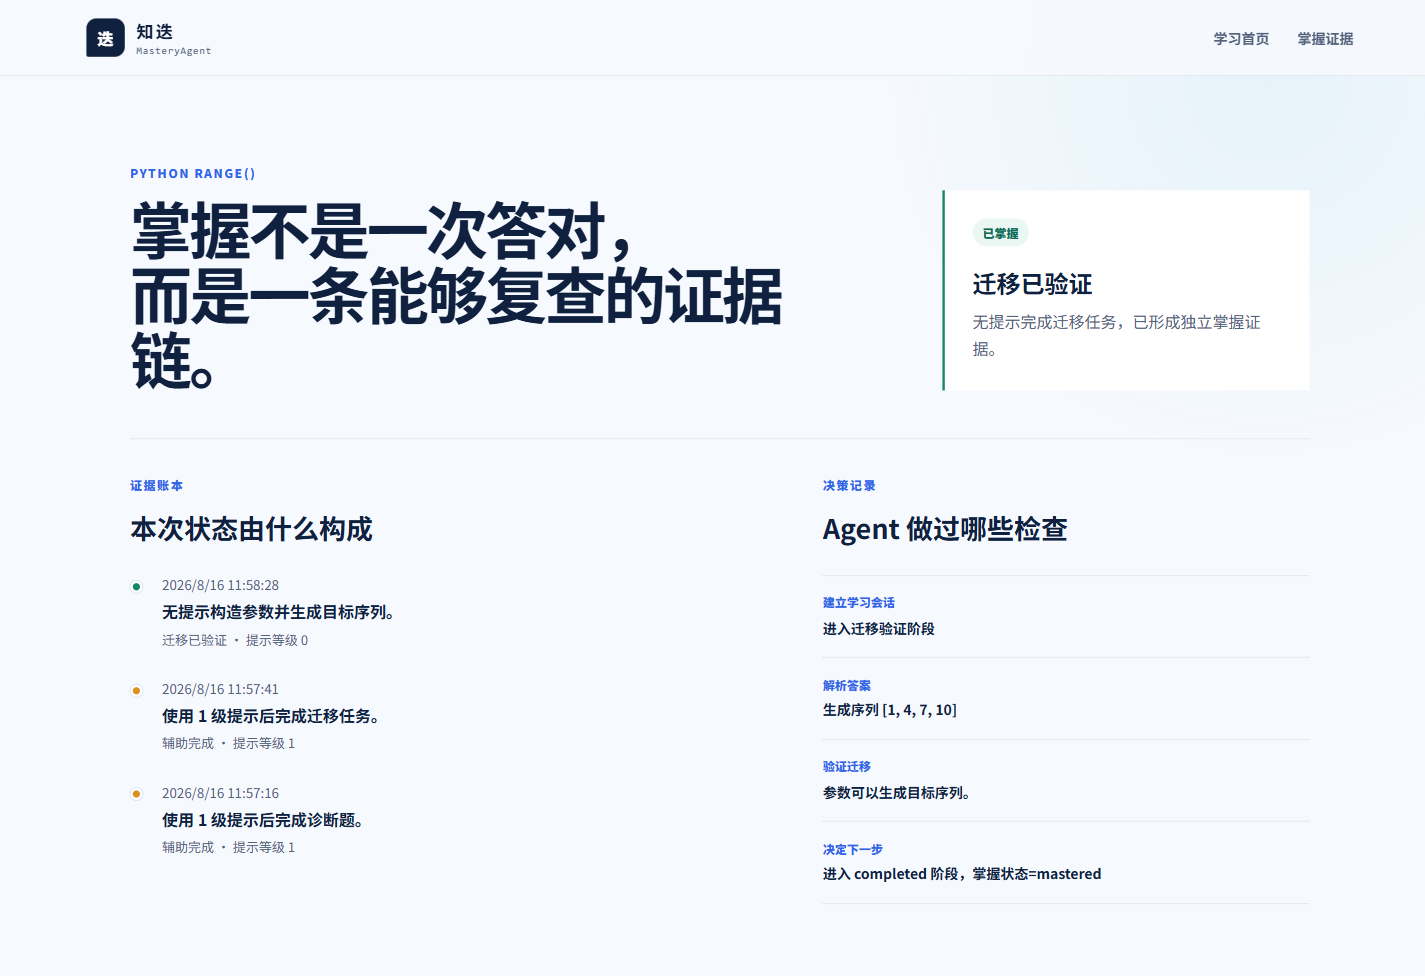
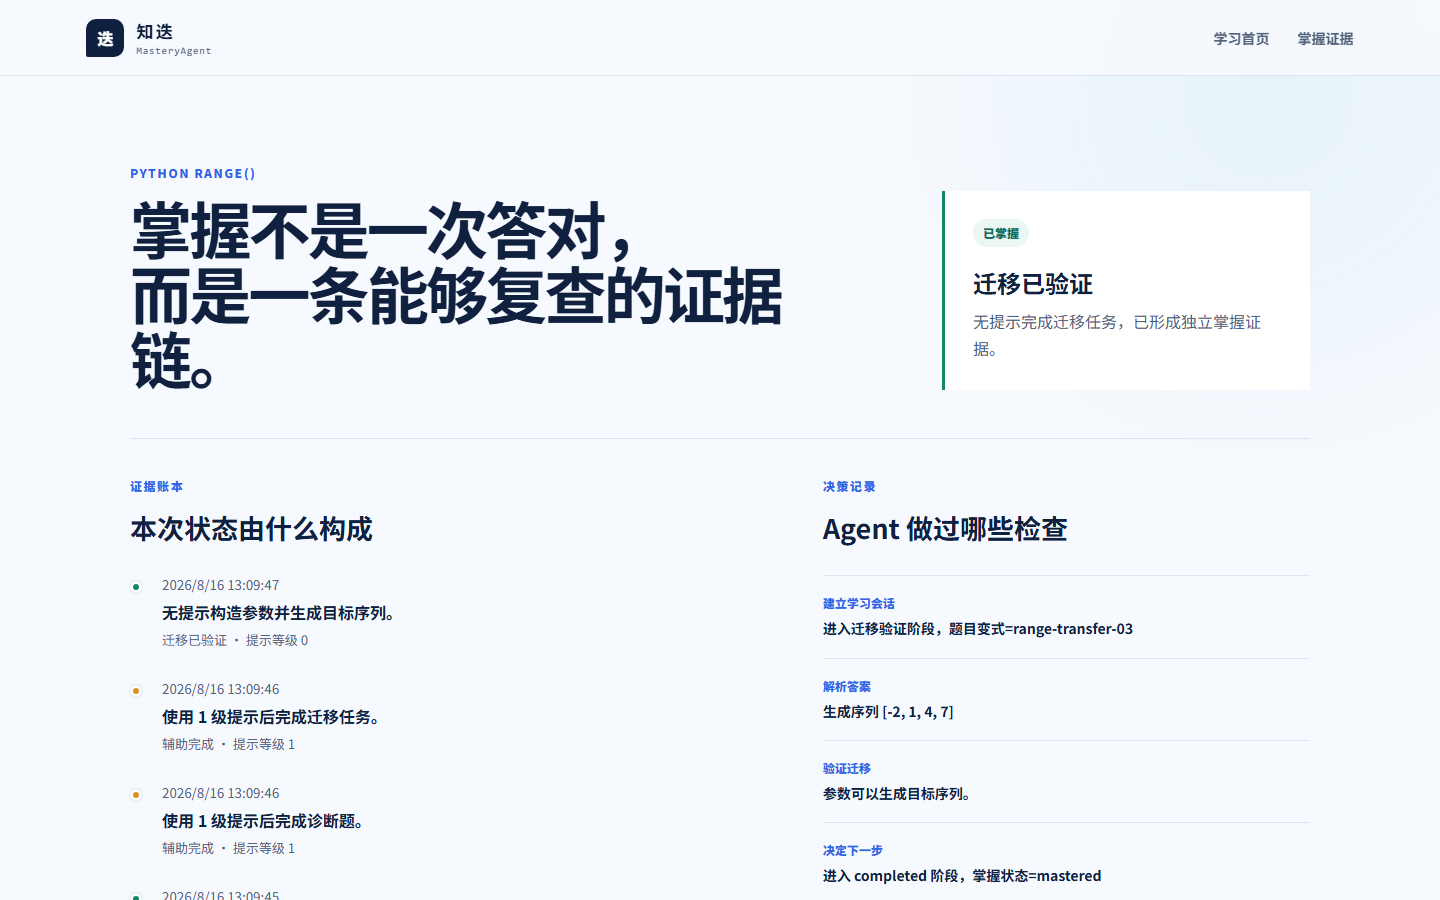
docs: refresh learning flow screenshots (#7)

diff --git a/frontend/e2e/mastery-flow.spec.ts b/frontend/e2e/mastery-flow.spec.ts
@@ -1,4 +1,23 @@
-import { expect, test } from "@playwright/test";
+import path from "node:path";
+import { fileURLToPath } from "node:url";
+
+import { expect, test, type Page } from "@playwright/test";
+
+
+const guideImageDirectory = path.resolve(
+  path.dirname(fileURLToPath(import.meta.url)),
+  "..",
+  "..",
+  "docs",
+  "images",
+  "user-guide",
+);
+
+async function captureGuideScreenshot(name: string, page: Page) {
+  if (process.env.CAPTURE_GUIDE_SCREENSHOTS !== "1") return;
+  await page.screenshot({ path: path.join(guideImageDirectory, name), fullPage: false });
+}
+
 
 test("独立掌握、错因提示与新变式复验形成完整证据链", async ({ page }) => {
   const consoleErrors: string[] = [];
@@ -19,6 +38,7 @@ test("独立掌握、错因提示与新变式复验形成完整证据链", async
 
   await page.getByRole("link", { name: "学习首页" }).click();
   await expect(page.getByRole("button", { name: "再练一次" })).toBeVisible();
+  await captureGuideScreenshot("repractice.png", page);
   await page.getByRole("button", { name: "再练一次" }).click();
 
   await page.getByLabel("你的答案").fill("[2, 3, 4]");
@@ -26,6 +46,7 @@ test("独立掌握、错因提示与新变式复验形成完整证据链", async
   await expect(page.locator(".feedback").getByText("你把步长 3 理解成了每次增加 1。")).toBeVisible();
   await page.getByRole("button", { name: "我需要一点提示" }).click();
   await expect(page.locator(".hint-panel").getByText(/第三个参数.*相邻两项/)).toBeVisible();
+  await captureGuideScreenshot("personalized-hint.png", page);
 
   await page.getByLabel("你的答案").fill("[2, 5, 8]");
   await page.getByRole("button", { name: "提交答案" }).click();
@@ -34,6 +55,7 @@ test("独立掌握、错因提示与新变式复验形成完整证据链", async
   await page.getByLabel("你的答案").fill("range(3, 16, 4)");
   await page.getByRole("button", { name: "提交答案" }).click();
   await expect(page.locator(".completion").getByRole("heading", { name: "本次完成，仍需独立验证" })).toBeVisible();
+  await captureGuideScreenshot("pending-verification.png", page);
 
   await page.getByRole("link", { name: "学习首页" }).click();
   await page.getByRole("button", { name: "开始迁移验证" }).click();
@@ -47,5 +69,6 @@ test("独立掌握、错因提示与新变式复验形成完整证据链", async
   await expect(page.getByText("迁移已验证", { exact: true }).first()).toBeVisible();
   await expect(page.getByText("使用 1 级提示后完成迁移任务。")).toBeVisible();
   await expect(page.getByText("无提示构造参数并生成目标序列。").first()).toBeVisible();
+  await captureGuideScreenshot("evidence.png", page);
   expect(consoleErrors).toEqual([]);
 });

diff --git a/frontend/playwright.config.ts b/frontend/playwright.config.ts
@@ -28,7 +28,11 @@ export default defineConfig({
   projects: [
     {
       name: "chromium",
-      use: { ...devices["Desktop Chrome"] },
+      use: {
+        ...devices["Desktop Chrome"],
+        viewport: { width: 1440, height: 900 },
+        deviceScaleFactor: 1,
+      },
     },
   ],
   webServer: [

diff --git a/docs/USER_GUIDE.md b/docs/USER_GUIDE.md
@@ -57,6 +57,8 @@ powershell -ExecutionPolicy Bypass -File .\scripts\start.ps1
 
 如果暂时无法修正，可以点击“我需要一点提示”。提示最多分为三级，只增加当前需要的信息，不直接替代学习者完成作答。停止值、起始值和步长等不同错因会进入不同的提示路径。
 
+![步长错因对应的专属提示](images/user-guide/personalized-hint.png)
+
 ## 4. 理解提示对掌握状态的影响
 
 一次答对不一定代表已经掌握。知迭会区分：
@@ -91,6 +93,8 @@ range(1, 11, 3)
 系统根据参数实际生成的序列判断结果，不要求唯一文本写法。只有在当前迁移任务中没有请求提示且实际序列正确，正式状态才会更新为“已掌握”。
 
 掌握后，首页会同时提供“查看掌握证据”和“再练一次”。再次练习会建立新的诊断会话并继续积累证据，不会删除已有记录。
+
+![已掌握后的再次练习入口](images/user-guide/repractice.png)
 
 ## 6. 查看掌握证据和 Agent Trace
 
